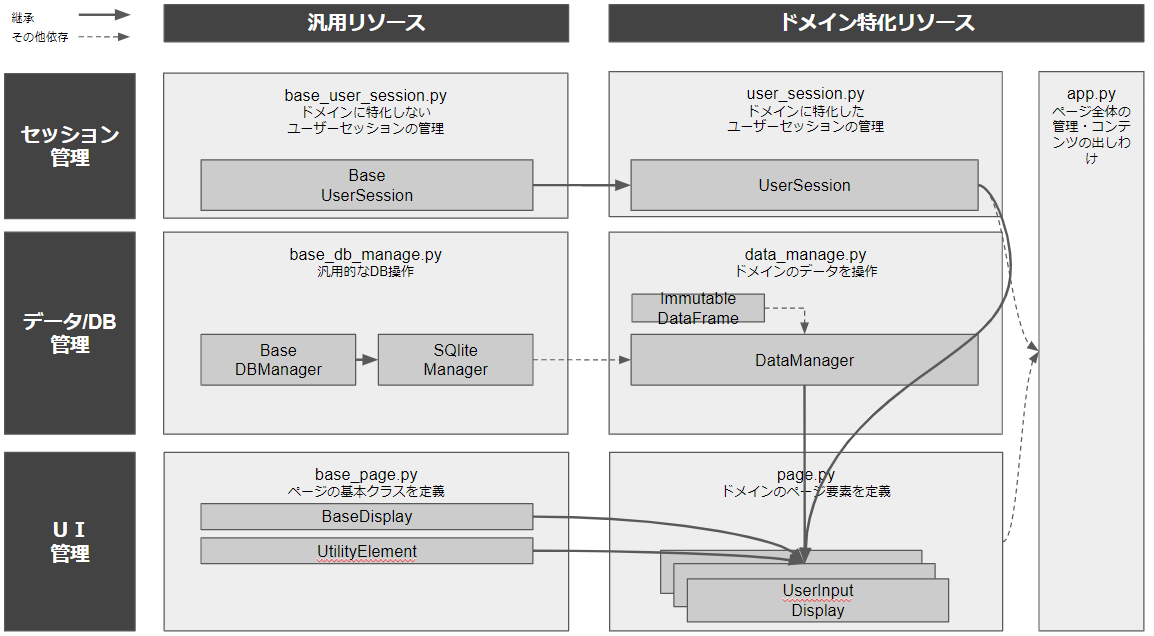
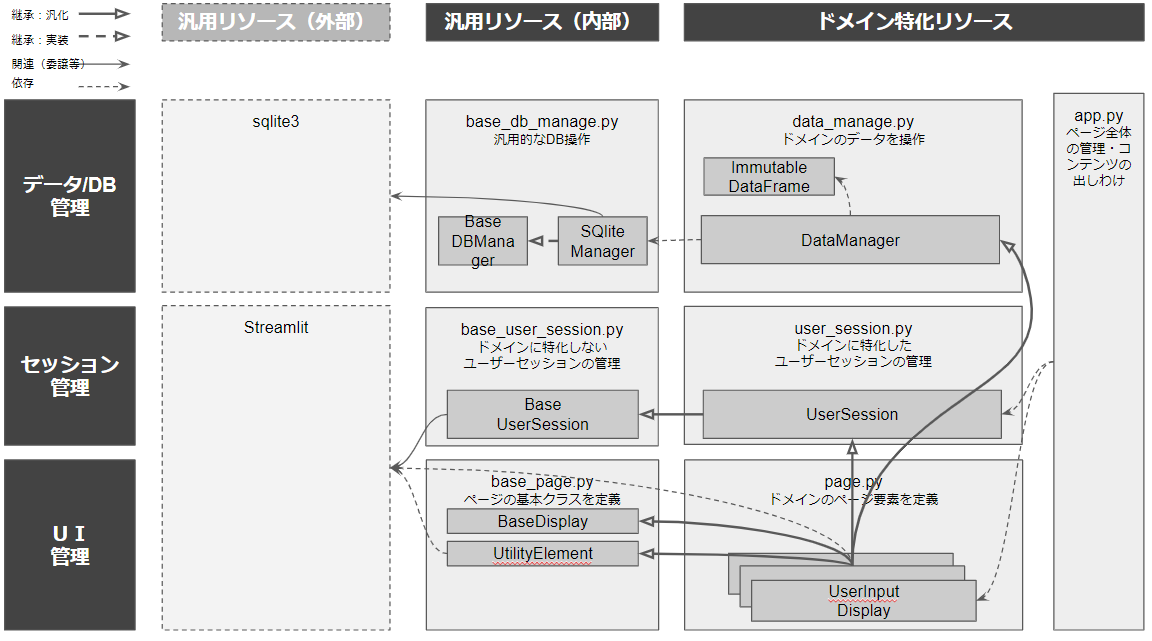
update readme

diff --git a/README.md b/README.md
@@ -32,6 +32,10 @@
         -  セッション変数（streamlit.user_session）へのアクセス制限、データフレームオブジェクトの修正制限を施しています。
     2. SQLを直接記述して実行できる箇所をDataManagerに限定することにより、SQLインジェクションなどの問題が発生しうる場所を限定しています。
     3. ドメイン特化型のリソースはページ開発用のインターフェースとして組み合わせて活用することを意図して設計しました。
+    4. 将来的に他のフレームワークに移行する可能性も考え、streamlitに依存する範囲を限定するべく、バックエンドのlogicをdata_manage.pyに移行しようとしましたが、途中で力つきました。
+
+※参考：Streamlitに依存する範囲
+![image](image/class_design_streamlit.PNG)
 
 ### セッション管理
 - **BaseUserSession**: ユーザーセッション管理の親クラス。事前に定義されていないstream.session_stateの変数が使用されないことを担保するために導入。ドメインに依存せず汎用的に使用できるメソッドをここで定義。開発者がsession_stateに直接アクセスした場合、github actionsのテストで検出し、テストでエラーを出すようにしている
